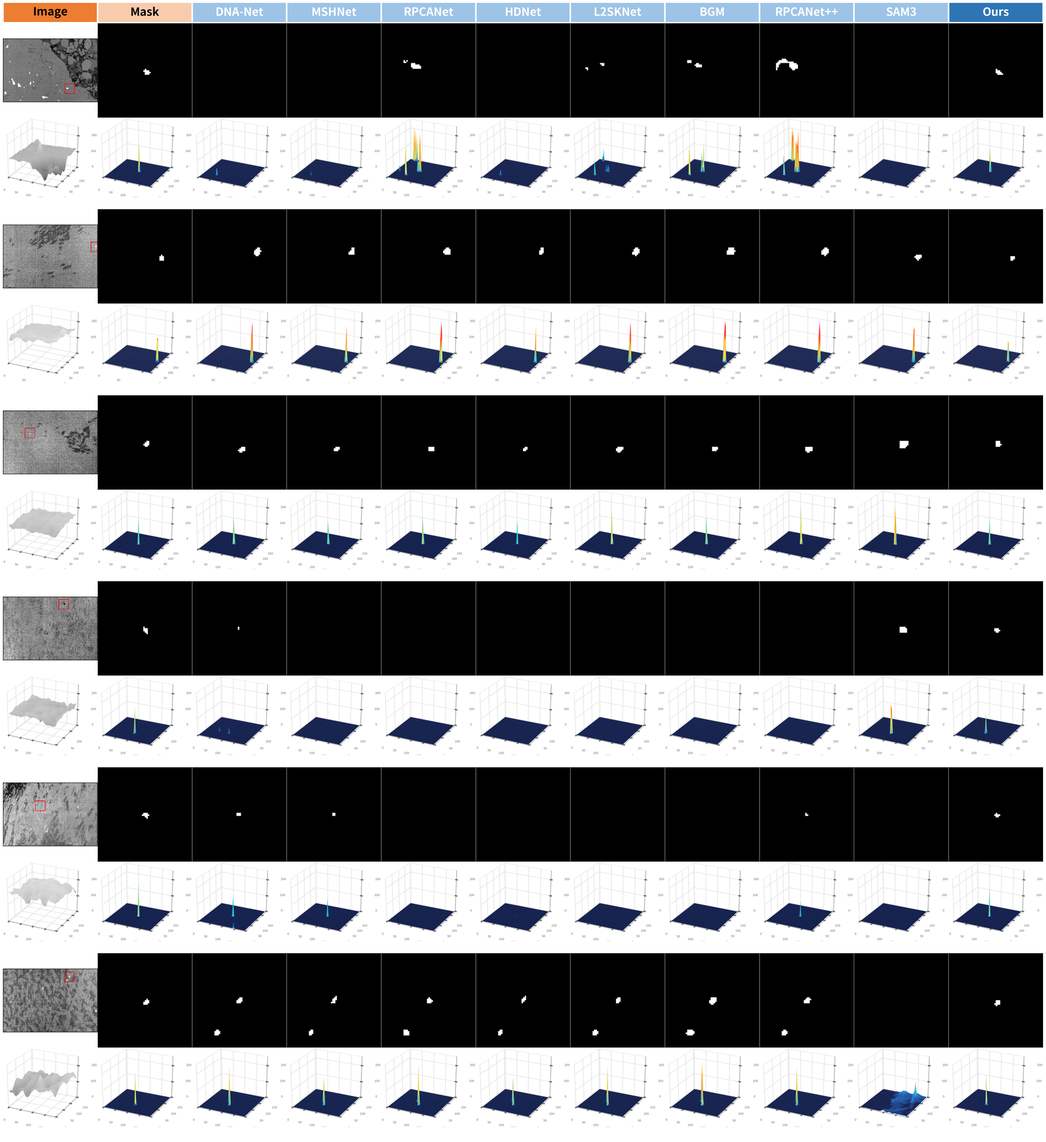
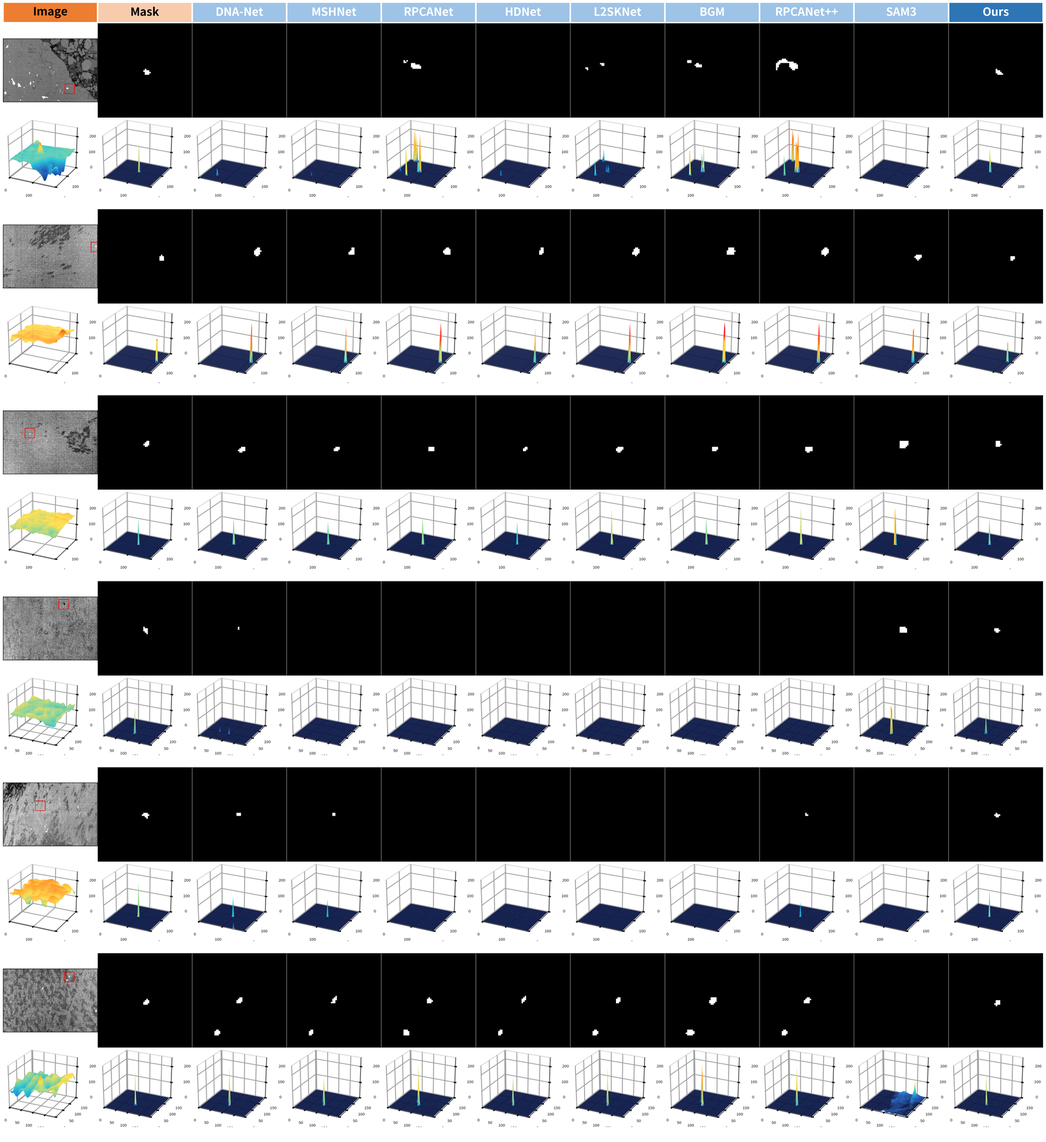
定性图 v7：3D 网格/刻度清晰化、Image 列 3D 改彩色、多目标各画一个红框
1) 3D 可读性：
   - 网格线 0.86 灰/0.22pt -> 0.62 灰/0.45pt；坐标面外框 0.72/0.5pt；轴线 0.30/0.4pt；刻度线 0.9pt
   - 刻度数字 1.7pt/0.45 灰 -> 2.2pt/0.10 近黑；每轴 3 个好刻度（nbins=3）不再拥挤
   - 去掉 X/Y/Z 轴名（0.87 in 面板里会和刻度数字重叠），只留三向数字
   - 裁边 6 -> 14 px，刻度数字不贴边
2) Image 列 3D 由灰色强度面改成彩色（seal3d 色带 + 线性映射），与 PDDiff 一致；
   预测列保持 PowerNorm(0.45) 提亮峰
3) 诊断面板：按 GT 连通域各画一个红框，单目标 36% 面板、多目标 0.45/n（n=3 -> 15%）

本地只留 v7，服务器 Ours/qualitative/ 保留 v0-v7

diff --git a/tools/build_paper_qualitative.py b/tools/build_paper_qualitative.py
@@ -165,22 +165,46 @@ def diag_panel(pred_bin, gt_bin, gt, roi, roi_mode, target=384, box_pad=8, box_f
         canvas = np.zeros((max(ch, cw), max(ch, cw), 3), np.uint8)
         oy, ox = (canvas.shape[0] - ch) // 2, (canvas.shape[1] - cw) // 2
         canvas[oy:oy + ch, ox:ox + cw] = crop
-        # GT box in the upscaled ROI: centred on the GT, at least box_frac of the panel
-        cx = ox + (gx0 + gx1) / 2.0 * k - x0 * k
-        cy = oy + (gy0 + gy1) / 2.0 * k - y0 * k
-        gt_w = (gx1 - gx0 + 1) * k
-        gt_h = (gy1 - gy0 + 1) * k
-        half = max(box_frac * canvas.shape[1], gt_w, gt_h) / 2.0 + box_pad
-        bx0, bx1 = int(round(cx - half)), int(round(cx + half))
-        by0, by1 = int(round(cy - half)), int(round(cy + half))
-        bx0, by0 = max(0, bx0), max(0, by0)
-        bx1 = min(canvas.shape[1] - 1, bx1)
-        by1 = min(canvas.shape[0] - 1, by1)
-        cv2.rectangle(canvas, (bx0, by0), (bx1, by1), RED, 3, cv2.LINE_AA)
+
+        # 一个 mask 里有多个目标就各画一个框；单个目标用大框，多个目标按数量收一点
+        n_lab, labels = cv2.connectedComponents(gt_bin.astype(np.uint8), connectivity=8)
+        comps = []
+        for lab in range(1, n_lab):
+            ys2, xs2 = np.where(labels == lab)
+            if len(ys2) == 0:
+                continue
+            comps.append((int(xs2.min()), int(xs2.max()), int(ys2.min()), int(ys2.max())))
+        if not comps:
+            comps = [(gx0, gx1, gy0, gy1)]
+        frac = 0.36 if len(comps) == 1 else max(0.12, min(0.26, 0.45 / len(comps)))
+        H, W = canvas.shape[:2]
+        for (cx0, cx1, cy0, cy1) in comps:
+            cx = ox + (cx0 + cx1) / 2.0 * k - x0 * k
+            cy = oy + (cy0 + cy1) / 2.0 * k - y0 * k
+            span = max(frac * W, (cx1 - cx0 + 1) * k, (cy1 - cy0 + 1) * k)
+            half = span / 2.0 + box_pad
+            bx0, bx1 = int(round(cx - half)), int(round(cx + half))
+            by0, by1 = int(round(cy - half)), int(round(cy + half))
+            bx0, by0 = max(0, bx0), max(0, by0)
+            bx1, by1 = min(W - 1, bx1), min(H - 1, by1)
+            cv2.rectangle(canvas, (bx0, by0), (bx1, by1), RED, 3, cv2.LINE_AA)
         return canvas
 
+    # 整幅模式：每个目标一个框
     panel = colour.copy()
-    cv2.rectangle(panel, (x0, y0), (x1, y1), RED, 2, cv2.LINE_AA)
+    n_lab, labels = cv2.connectedComponents(gt_bin.astype(np.uint8), connectivity=8)
+    boxes = []
+    for lab in range(1, n_lab):
+        ys2, xs2 = np.where(labels == lab)
+        if len(ys2) == 0:
+            continue
+        boxes.append((int(xs2.min()), int(xs2.max()), int(ys2.min()), int(ys2.max())))
+    if not boxes:
+        boxes = [(x0, x1, y0, y1)]
+    for (cx0, cx1, cy0, cy1) in boxes:
+        cv2.rectangle(panel, (max(0, cx0 - box_pad), max(0, cy0 - box_pad)),
+                      (min(w - 1, cx1 + box_pad), min(h - 1, cy1 + box_pad)),
+                      RED, 2, cv2.LINE_AA)
     return panel
 
 
@@ -216,8 +240,8 @@ def trim_white(img_bgr, pad=10, thr=250):
     return img_bgr[y0:y1, x0:x1]
 
 
-def render_surface_png(arr, path, vmax, cmap='jet',
-                       size_in=(0.873, 0.733), dpi=1200, pad=6):
+def render_surface_png(arr, path, vmax, cmap='jet', gamma=0.45,
+                       size_in=(0.873, 0.733), dpi=1200, pad=14):
     """One 3D box as a standalone PNG, tight-cropped so the box fills the frame.
 
     `arr` is the already-smoothed response crop. Rendered at one cell of the composite
@@ -227,7 +251,7 @@ def render_surface_png(arr, path, vmax, cmap='jet',
     path.parent.mkdir(parents=True, exist_ok=True)
     f = plt.figure(figsize=size_in, dpi=dpi, facecolor='white')
     ax = f.add_subplot(111, projection='3d')
-    add_surface(ax, arr, vmax=vmax, cmap=cmap)
+    add_surface(ax, arr, vmax=vmax, cmap=cmap, gamma=gamma)
     f.subplots_adjust(left=0.0, right=1.0, bottom=0.0, top=1.0)
     import io
 
@@ -240,46 +264,50 @@ def render_surface_png(arr, path, vmax, cmap='jet',
     return path
 
 
-def add_surface(ax, arr, vmax=255.0, cmap=SURF_CMAP, tick_font=1.7):
-    """PDDiff Fig. 9 style surface: filled frame, light grid, thin grey axes, tick labels.
+def add_surface(ax, arr, vmax=255.0, cmap=SURF_CMAP, tick_font=2.2, gamma=0.45):
+    """PDDiff Fig. 9 style surface with a legible wireframe and tick labels.
 
     `arr` must already be smoothed; `vmax` is normally the peak of `arr`, so the target
-    response always reaches the top of the box (tall, obvious peak) and gets the hot end
-    of the colour map.
+    response always reaches the top of the box. `gamma=None` switches the colour mapping
+    to linear (used for the Image column, where the surface is an intensity map).
     """
     h, w = arr.shape
     step = max(1, min(h, w) // 48)
     yy, xx = np.mgrid[0:h:step, 0:w:step]
     zz = arr[::step, ::step]
-    norm = PowerNorm(gamma=0.45, vmin=0, vmax=vmax)
-    ax.plot_surface(xx, yy, zz, cmap=cmap, norm=norm, rstride=1, cstride=1, linewidth=0,
-                    antialiased=True, shade=False)
+    norm = PowerNorm(gamma=gamma, vmin=0, vmax=vmax) if gamma else None
+    if norm is None:
+        ax.plot_surface(xx, yy, zz, cmap=cmap, vmin=0, vmax=vmax, rstride=1, cstride=1,
+                        linewidth=0, antialiased=True, shade=False)
+    else:
+        ax.plot_surface(xx, yy, zz, cmap=cmap, norm=norm, rstride=1, cstride=1,
+                        linewidth=0, antialiased=True, shade=False)
     ax.set_zlim(0, vmax)
     ax.view_init(elev=26, azim=-64)
 
     # 坐标刻度：X/Y 是裁剪块像素坐标，Z 是响应值；取整数"好刻度"，与 PDDiff 一致
-    loc = MaxNLocator(nbins=4, integer=True, steps=[1, 2, 2.5, 5, 10])
+    loc = MaxNLocator(nbins=3, integer=True, steps=[1, 2, 2.5, 5, 10])
     ax.xaxis.set_major_locator(loc)
     ax.yaxis.set_major_locator(loc)
-    ax.zaxis.set_major_locator(MaxNLocator(nbins=4, integer=True, steps=[1, 2, 2.5, 5, 10]))
-    ax.tick_params(axis='x', labelsize=tick_font, pad=-3.0, length=0.4, width=0.15,
-                   colors='0.45')
-    ax.tick_params(axis='y', labelsize=tick_font, pad=-3.0, length=0.4, width=0.15,
-                   colors='0.45')
-    ax.tick_params(axis='z', labelsize=tick_font, pad=-1.5, length=0.4, width=0.15,
-                   colors='0.45')
-    ax.set_xlabel('X', fontsize=tick_font + 0.3, labelpad=-9, color='0.15')
-    ax.set_ylabel('Y', fontsize=tick_font + 0.3, labelpad=-9, color='0.15')
-    ax.set_zlabel('Z', fontsize=tick_font + 0.3, labelpad=-4, color='0.15')
+    ax.zaxis.set_major_locator(MaxNLocator(nbins=3, integer=True, steps=[1, 2, 2.5, 5, 10]))
+    for axis in ('x', 'y'):
+        ax.tick_params(axis=axis, labelsize=tick_font, pad=-3.0, length=0.9, width=0.4,
+                       colors='0.10')
+    ax.tick_params(axis='z', labelsize=tick_font, pad=-1.5, length=0.9, width=0.4,
+                   colors='0.10')
+    # 面板只有 0.87 in 宽，再放 X/Y/Z 轴名会和刻度数字撞在一起，只保留三向刻度数字
+    ax.set_xlabel('')
+    ax.set_ylabel('')
+    ax.set_zlabel('')
 
     for axis in (ax.xaxis, ax.yaxis, ax.zaxis):
         axis.pane.set_facecolor((1, 1, 1, 1))
-        axis.pane.set_edgecolor((0.85, 0.85, 0.85, 1))   # 细浅灰外框
-        axis.pane.set_linewidth(0.3)
-        axis._axinfo['grid'].update(color=(0.86, 0.86, 0.86, 1), linewidth=0.22)
-        # 去掉 matplotlib 默认的黑色粗轴线，改成很细的灰线（PDDiff 没有黑粗线）
-        axis.line.set_color((0.55, 0.55, 0.55, 1))
-        axis.line.set_linewidth(0.22)
+        axis.pane.set_edgecolor((0.72, 0.72, 0.72, 1))   # 外框要看得见
+        axis.pane.set_linewidth(0.5)
+        axis._axinfo['grid'].update(color=(0.62, 0.62, 0.62, 1), linewidth=0.45)
+        # 去掉 matplotlib 默认的黑色粗轴线，改成细而清楚的灰线
+        axis.line.set_color((0.30, 0.30, 0.30, 1))
+        axis.line.set_linewidth(0.4)
 
     ax.grid(True)
     ax.set_box_aspect((1, 1, 1.00), zoom=0.88)
@@ -445,15 +473,18 @@ def main():
             for spine in ax.spines.values():
                 spine.set_color('black'), spine.set_linewidth(0.3)
         for j, surf in enumerate(surfaces):
-            cmap = 'gray' if columns[j][2] == 'image' else SURF_CMAP
-            smooth = 5.0 if columns[j][2] == 'image' else 0.9
+            is_img = columns[j][2] == 'image'
+            cmap = SURF_CMAP if is_img else SURF_CMAP
+            smooth = 5.0 if is_img else 0.9
             arr = gaussian_filter(surf.astype(np.float32), smooth)
             peak = float(arr.max())
             vmax = 255.0 if args.z_mode == 'shared' else max(20.0, peak)
+            # Image 列：彩色（PDDiff 那样），用线性映射；预测列用 PowerNorm 提亮峰
+            gamma = None if is_img else 0.45
             col = safe_name(columns[j][0])
-            p3d = cache_root / f'{stem}_{j:02d}_{col}_{int(round(vmax))}.png'
+            p3d = cache_root / f'{stem}_{j:02d}_{col}_{int(round(vmax))}_{"lin" if is_img else "pow"}.png'
             if not p3d.exists():
-                render_surface_png(arr, p3d, vmax=vmax, cmap=cmap)
+                render_surface_png(arr, p3d, vmax=vmax, cmap=cmap, gamma=gamma)
             if split_root is not None:
                 dst = split_root / f'{si + 1:02d}_{stem}' / '3d' / f'{j:02d}_{col}.png'
                 dst.parent.mkdir(parents=True, exist_ok=True)

diff --git a/AGENTS.md b/AGENTS.md
@@ -62,7 +62,7 @@
 - DRPCA-Net 的 11.23 FPS 是实现开销而非测量噪声：`torch.profiler` 显示单次前向 CUDA 时间的 81.8 % 花在 `ChannelAttention` 的 `nn.AdaptiveMaxPool2d(1)`（每前向 29 次调用），且延迟对 batch 1/2/4 不敏感（85/56/65 ms）。按官方代码如实记录，不改实现。口径、对照表与差异分析见 [Seal 复杂度指标说明](docs/Seal复杂度指标_说明.md)。
 - 平凡基线（决定读表方式，不新增表行）：全背景预测（1,983 张全零）在同一 test GT 上为 S 0.49990、Fw 0、E 0.25、MAE 0.00020553，IoU/F1/Pd/Fa 均为 0。12 个基线与 Ours 的 S（0.49800–0.49915）全部低于该值，12 个基线的 MAE（0.000229–0.000375）全部高于该值，只有 Ours 的 MAE（0.00015090）低于它。因此 S/MAE 在 Seal 上不区分方法，比较以 Fw/IoU/F1/Pd/Fa 为主，S/MAE 须与平凡基线并列阅读；复算见 [汇总](docs/Seal全监督基线评估汇总.md#平凡基线全背景预测)。
 - 第三批（入表，行 29～32）：L2SKNet（TGRS25）、BGM（TGRS25）、DRPCA-Net（TGRS25）、DURD（TGRS26），均为 2025–2026 年、有官方代码的全监督单帧方法，12 个对比方法到此凑满。目录 `L2SKNet-main/`、`BGM-main/`、`DRPCA-Net-main/`、`DURD-main/`；训练设置：L2SKNet 150/Adam 5e-4、BGM 150/Adam 5e-4（两者模型输出已是概率，用概率空间 dataset 级 IoU）、DRPCA-Net 60/Adam 3e-5/dataset 级 SoftIoU + 0.01 MSE、DURD 100/Adam 1e-4/SoftIoU + 0.1 MSE。各处改动逐条写在对应实验记录与 [汇总](docs/Seal全监督基线评估汇总.md#训练不稳定与失败记录)。
-- 论文版式定性图（对齐 PDDiff Fig. 8/9）：[tools/build_paper_qualitative.py](tools/build_paper_qualitative.py)，每个样例两行（2D 二值面板 + 红框/放大插图；3D 响应面 `elev=26, azim=-64`、按面板 z 上限）。三条硬约束：① 3D 行必须喂**概率图**（`--surf-maps results/<M>/Seal/fullsup_test_maps`），二值图是 0/255 阶跃，画出来只有一根尖刺；② Seal 目标只有 3–5 px，`full` 版式（整幅 + 右下插图）在 0.87 in 列宽下几乎看不见，正式图用 `--roi-panels`（面板 = 6 倍放大 ROI，`--roi-min 64 --roi-margin 24`）；③ 11 列 × 11 样例按 9.6 in 出图，若按 7.2 in 排版表头掉到 5.6 pt，主图应拆成 `seal_pick6_roi` + `seal_pick5_roi` 两张。样例取 [docs/qualitative_rank_top200.json](docs/qualitative_rank_top200.json)（`score = F1(Ours) − mean_k F1(baseline_k)`，可用 [docs/qualitative_review_top200.html](docs/qualitative_review_top200.html) 逐图复核），当前采用排名 1,2,5,6,8,11,13,15,19,21,29 共 11 张，一键重建 [tools/make_paper_qualitative_pick.sh](tools/make_paper_qualitative_pick.sh)。Ours 预测在 `Ours/test_maps`（1,983 张概率图）、SAM3 在 `Ours/SAM3-test_maps`（同阈值 `>=128`）。版式规格、样例清单与读数见 [docs/Seal定性图_论文版式.md](docs/Seal定性图_论文版式.md)，预览 `docs/assets/seal_qualitative_pick6_roi.png`、`docs/assets/seal_qualitative_pick11_full.png`。全分辨率成品（600 dpi PNG + 矢量 PDF + meta，约 110 MB/版）按版本归档：服务器保留全部历史（v1 `Ours/qualitative/v1_20261104_11col/`、v2 `v2_20261105/`、v3 `v3_20261105/`、v4 `v4_20261105/`、v5 `v5_20261105/`、v6 `v6_20261105/`），本地只留最新一版在 `Ours/qualitative/v6_20261105/`；**整个 `Ours/qualitative/` 不进 git**（`.gitignore` 整目录排除，只有 `docs/assets/` 里的 1800 px 预览入库）。版式演进：v2 压紧列间距、3D 加网格 + 整数刻度 + 轴名、去掉黑色粗轴线；v3 加单图拆分与 Visio；v4 让 3D 盒子铺满格子（按格子尺寸渲染 PNG → 裁白边 → `aspect='auto'` 贴回）；**v5 解决「3D 白边仍偏大、峰不够高不够显眼」：裁边 26→6 px、平滑 σ 2.0→0.9、`vmax` 取平滑后峰值（峰顶到天花板）、Z 轴统一 0–255 保证跨列可比、盒子 z 比例 0.55→1.00、自定义 `seal3d` 色带（深蓝底→青→黄→亮红）+ `PowerNorm(0.45)`**；并新增 `--diag` 诊断面板（TP 白 / FP 红 / FN 绿 + 红框标 GT），Visio 改用诊断面板；**v6 把诊断面板的红框放大到至少占面板 36%（约 138 px、3 px 线）**——红框是给人定位用的，v5 那版只比 GT 外扩 8 px，印刷尺寸下等于没有。Visio 版由 [tools/make_visio_qualitative.ps1](tools/make_visio_qualitative.ps1) 用 Visio COM 生成（仅 Windows + 已装 Visio）：11 页、每样例一页、每页 34 个独立形状（表头矩形 + 22 张图片 + 页脚说明），可手动调整格式。
+- 论文版式定性图（对齐 PDDiff Fig. 8/9）：[tools/build_paper_qualitative.py](tools/build_paper_qualitative.py)，每个样例两行（2D 二值面板 + 红框/放大插图；3D 响应面 `elev=26, azim=-64`、按面板 z 上限）。三条硬约束：① 3D 行必须喂**概率图**（`--surf-maps results/<M>/Seal/fullsup_test_maps`），二值图是 0/255 阶跃，画出来只有一根尖刺；② Seal 目标只有 3–5 px，`full` 版式（整幅 + 右下插图）在 0.87 in 列宽下几乎看不见，正式图用 `--roi-panels`（面板 = 6 倍放大 ROI，`--roi-min 64 --roi-margin 24`）；③ 11 列 × 11 样例按 9.6 in 出图，若按 7.2 in 排版表头掉到 5.6 pt，主图应拆成 `seal_pick6_roi` + `seal_pick5_roi` 两张。样例取 [docs/qualitative_rank_top200.json](docs/qualitative_rank_top200.json)（`score = F1(Ours) − mean_k F1(baseline_k)`，可用 [docs/qualitative_review_top200.html](docs/qualitative_review_top200.html) 逐图复核），当前采用排名 1,2,5,6,8,11,13,15,19,21,29 共 11 张，一键重建 [tools/make_paper_qualitative_pick.sh](tools/make_paper_qualitative_pick.sh)。Ours 预测在 `Ours/test_maps`（1,983 张概率图）、SAM3 在 `Ours/SAM3-test_maps`（同阈值 `>=128`）。版式规格、样例清单与读数见 [docs/Seal定性图_论文版式.md](docs/Seal定性图_论文版式.md)，预览 `docs/assets/seal_qualitative_pick6_roi.png`、`docs/assets/seal_qualitative_pick11_full.png`。全分辨率成品（600 dpi PNG + 矢量 PDF + meta，约 110 MB/版）按版本归档：服务器保留全部历史（v1 `Ours/qualitative/v1_20261104_11col/`、v2 `v2_20261105/`、v3 `v3_20261105/`、v4 `v4_20261105/`、v5 `v5_20261105/`、v6 `v6_20261105/`、v7 `v7_20261105/`），本地只留最新一版在 `Ours/qualitative/v7_20261105/`；**整个 `Ours/qualitative/` 不进 git**（`.gitignore` 整目录排除，只有 `docs/assets/` 里的 1800 px 预览入库）。版式演进：v2 压紧列间距、3D 加网格 + 整数刻度 + 轴名、去掉黑色粗轴线；v3 加单图拆分与 Visio；v4 让 3D 盒子铺满格子（按格子尺寸渲染 PNG → 裁白边 → `aspect='auto'` 贴回）；**v5 解决「3D 白边仍偏大、峰不够高不够显眼」：裁边 26→6 px、平滑 σ 2.0→0.9、`vmax` 取平滑后峰值（峰顶到天花板）、Z 轴统一 0–255 保证跨列可比、盒子 z 比例 0.55→1.00、自定义 `seal3d` 色带（深蓝底→青→黄→亮红）+ `PowerNorm(0.45)`**；并新增 `--diag` 诊断面板（TP 白 / FP 红 / FN 绿 + 红框标 GT），Visio 改用诊断面板；**v6 把诊断面板的红框放大到至少占面板 36%（约 138 px、3 px 线）**——红框是给人定位用的，v5 那版只比 GT 外扩 8 px，印刷尺寸下等于没有。**v7 再优化三点：① 3D 网格线 0.62 灰 / 0.45 pt、刻度数字 2.2 pt 近黑、每轴 3 个好刻度、去掉会撞车的 X/Y/Z 轴名；② Image 列 3D 改彩色（`seal3d` 色带 + 线性映射，与 PDDiff 一致）；③ 诊断面板遇到多目标时每个连通域各画一个红框（单目标 36% 面板、多目标 0.45/n）**。Visio 版由 [tools/make_visio_qualitative.ps1](tools/make_visio_qualitative.ps1) 用 Visio COM 生成（仅 Windows + 已装 Visio）：11 页、每样例一页、每页 34 个独立形状（表头矩形 + 22 张图片 + 页脚说明），可手动调整格式。
 - 定性图（论文拼图用）：12 个方法与 Ours 的二值预测图在 `results/<Method>/Seal/test_binary/`（1,983 张，`pixel >= 128` → 255），由 [tools/make_binary_maps.py](tools/make_binary_maps.py) 与 [tools/make_qualitative.sh](tools/make_qualitative.sh) 生成；样例拼图在服务器 `qualitative/<stem>/panel.png`（RGB/热红外/GT/预测叠加，13 行），样例清单 `docs/Seal定性对比样例.json`，说明见 [docs/Seal定性对比图.md](docs/Seal定性对比图.md)。
 - ROC / P-R / Pd–Fa 曲线：像素级曲线用 [tools/roc_hist.py](tools/roc_hist.py) 把预测值按 GT 前景（`gt > 127`）/背景分箱成 256 桶直方图（[tools/roc_hist_all.sh](tools/roc_hist_all.sh) → `results/roc_hist/<Method>.json`），目标级曲线用 [tools/target_curves.py](tools/target_curves.py) 在 63 个阈值上做 8 连通 + 质心 <3 px 一对一匹配（[tools/target_curves_all.sh](tools/target_curves_all.sh) 13 进程并行约 1.5 h → `results/target_curves/<Method>.json`）；出图分别是 [tools/plot_roc_pr.py](tools/plot_roc_pr.py) 与 [tools/plot_target_curves.py](tools/plot_target_curves.py)。产物按版本存 `Ours/roc_pr/<version>/`：`v4_20261105/`（像素级 ROC 两段直线版，示例图同款）、`v3_20261105/`（目标级 Pd–Fa，线性 + log 两种横轴）、`v2_20261105/` 与 `v1_20261105/` 为原曲线版留档；每次同时存 PNG（600 dpi）与 PDF + `curves.json` + `summary.md`。**画法（用户明确要求）**：每个方法一条折线且只有两段直线——`(0,0) → 拐点 → (右边框, 平台)`；平台取右边框处的值（像素级 = TPR@FPR=5×10⁻⁴，目标级 = max Pd），拐点 = 沿横轴升序第一个 ≥0.98×平台 的点（`--two-segment`、`--knee-frac`）。像素级 ROC 要把整条折线交给坐标轴裁剪，不能先切掉窗口外的点（否则曲线在末点断掉）；PR 的 (0,1) 哨兵只用于 AP 积分，绘图从第一个真正检出目标的点开始（否则 recall=0 处出现竖直尖刺）；图例按 pAUC 排行、Ours 红色加粗置顶。**一致性**：像素级 `t=128` 的 precision/recall 可复原表中 F1/IoU（Ours 0.61905/0.44831 vs 0.61912/0.44835）；目标级 `t=128` 的 Pd/Fa 与表中 13 行全部逐位吻合（Ours 0.82731 / 2.100e-06）。三条读图约束：① 主指标用低 FPR 区间的 **pAUC**（Ours 0.64386 最高，次优 SCTransNet 0.58376），**不要用全范围 AUC**——几乎不预测前景的 UIU-Net/SCTransNet/ILNet 反而 0.977–0.981，与 S/MAE 被背景主导同类；② 目标级图 Ours 平台 Pd 0.834 最高、拐点 Fa 1.2×10⁻⁶ 比次优 HDNet（5.2×10⁻⁵）低 40 倍，但 13 个方法的 Fa 跨 70 倍，**线性轴会把 Ours 压成贴 y 轴的竖线，主推 log 轴**；③ 像素级 `Pd@t=128`（0.594）是前景像素召回率，与表中目标级 Pd（0.827）不同口径不能互引。口径、两版对照与复现命令见 [docs/Seal_ROC_PR曲线.md](docs/Seal_ROC_PR曲线.md)，预览 `docs/assets/seal_roc_pr_v4.png`、`docs/assets/seal_pd_fa_v3.png`。
 - IoU 的边界敏感性：Seal 目标平均 14.3 像素，把 GT 膨胀/腐蚀 1 像素当预测只能得到 IoU 0.3910 / 0.0826；表中 IoU 0.19–0.31 对应约 1–2 像素边界误差，不能读作分割质量百分比，须与 Fw/F1/Pd/Fa 合看，详见 [定义对照](docs/小目标评价指标_定义与代码对照.md#iou-的边界敏感性seal-gt-实测)。

diff --git a/README.md b/README.md
@@ -65,7 +65,7 @@
 - DRPCA-Net 的 11.23 FPS 是实现开销而非测量噪声：`torch.profiler` 显示单次前向 CUDA 时间的 81.8 % 花在 `ChannelAttention` 的 `nn.AdaptiveMaxPool2d(1)`（每前向 29 次调用），且延迟对 batch 1/2/4 不敏感（85/56/65 ms）。按官方代码如实记录，不改实现。口径、对照表与差异分析见 [Seal 复杂度指标说明](docs/Seal复杂度指标_说明.md)。
 - 平凡基线（决定读表方式，不新增表行）：全背景预测（1,983 张全零）在同一 test GT 上为 S 0.49990、Fw 0、E 0.25、MAE 0.00020553，IoU/F1/Pd/Fa 均为 0。12 个基线与 Ours 的 S（0.49800–0.49915）全部低于该值，12 个基线的 MAE（0.000229–0.000375）全部高于该值，只有 Ours 的 MAE（0.00015090）低于它。因此 S/MAE 在 Seal 上不区分方法，比较以 Fw/IoU/F1/Pd/Fa 为主，S/MAE 须与平凡基线并列阅读；复算见 [汇总](docs/Seal全监督基线评估汇总.md#平凡基线全背景预测)。
 - 第三批（入表，行 29～32）：L2SKNet（TGRS25）、BGM（TGRS25）、DRPCA-Net（TGRS25）、DURD（TGRS26），均为 2025–2026 年、有官方代码的全监督单帧方法，12 个对比方法到此凑满。目录 `L2SKNet-main/`、`BGM-main/`、`DRPCA-Net-main/`、`DURD-main/`；训练设置：L2SKNet 150/Adam 5e-4、BGM 150/Adam 5e-4（两者模型输出已是概率，用概率空间 dataset 级 IoU）、DRPCA-Net 60/Adam 3e-5/dataset 级 SoftIoU + 0.01 MSE、DURD 100/Adam 1e-4/SoftIoU + 0.1 MSE。各处改动逐条写在对应实验记录与 [汇总](docs/Seal全监督基线评估汇总.md#训练不稳定与失败记录)。
-- 论文版式定性图（对齐 PDDiff Fig. 8/9）：[tools/build_paper_qualitative.py](tools/build_paper_qualitative.py)，每个样例两行（2D 二值面板 + 红框/放大插图；3D 响应面 `elev=26, azim=-64`、按面板 z 上限）。三条硬约束：① 3D 行必须喂**概率图**（`--surf-maps results/<M>/Seal/fullsup_test_maps`），二值图是 0/255 阶跃，画出来只有一根尖刺；② Seal 目标只有 3–5 px，`full` 版式（整幅 + 右下插图）在 0.87 in 列宽下几乎看不见，正式图用 `--roi-panels`（面板 = 6 倍放大 ROI，`--roi-min 64 --roi-margin 24`）；③ 11 列 × 11 样例按 9.6 in 出图，若按 7.2 in 排版表头掉到 5.6 pt，主图应拆成 `seal_pick6_roi` + `seal_pick5_roi` 两张。样例取 [docs/qualitative_rank_top200.json](docs/qualitative_rank_top200.json)（`score = F1(Ours) − mean_k F1(baseline_k)`，可用 [docs/qualitative_review_top200.html](docs/qualitative_review_top200.html) 逐图复核），当前采用排名 1,2,5,6,8,11,13,15,19,21,29 共 11 张，一键重建 [tools/make_paper_qualitative_pick.sh](tools/make_paper_qualitative_pick.sh)。Ours 预测在 `Ours/test_maps`（1,983 张概率图）、SAM3 在 `Ours/SAM3-test_maps`（同阈值 `>=128`）。版式规格、样例清单与读数见 [docs/Seal定性图_论文版式.md](docs/Seal定性图_论文版式.md)，预览 `docs/assets/seal_qualitative_pick6_roi.png`、`docs/assets/seal_qualitative_pick11_full.png`。全分辨率成品（600 dpi PNG + 矢量 PDF + meta，约 110 MB/版）按版本归档：服务器保留全部历史（v1 `Ours/qualitative/v1_20261104_11col/`、v2 `v2_20261105/`、v3 `v3_20261105/`、v4 `v4_20261105/`、v5 `v5_20261105/`、v6 `v6_20261105/`），本地只留最新一版在 `Ours/qualitative/v6_20261105/`；**整个 `Ours/qualitative/` 不进 git**（`.gitignore` 整目录排除，只有 `docs/assets/` 里的 1800 px 预览入库）。版式演进：v2 压紧列间距、3D 加网格 + 整数刻度 + 轴名、去掉黑色粗轴线；v3 加单图拆分与 Visio；v4 让 3D 盒子铺满格子（按格子尺寸渲染 PNG → 裁白边 → `aspect='auto'` 贴回）；**v5 解决「3D 白边仍偏大、峰不够高不够显眼」：裁边 26→6 px、平滑 σ 2.0→0.9、`vmax` 取平滑后峰值（峰顶到天花板）、Z 轴统一 0–255 保证跨列可比、盒子 z 比例 0.55→1.00、自定义 `seal3d` 色带（深蓝底→青→黄→亮红）+ `PowerNorm(0.45)`**；并新增 `--diag` 诊断面板（TP 白 / FP 红 / FN 绿 + 红框标 GT），Visio 改用诊断面板；**v6 把诊断面板的红框放大到至少占面板 36%（约 138 px、3 px 线）**——红框是给人定位用的，v5 那版只比 GT 外扩 8 px，印刷尺寸下等于没有。Visio 版由 [tools/make_visio_qualitative.ps1](tools/make_visio_qualitative.ps1) 用 Visio COM 生成（仅 Windows + 已装 Visio）：11 页、每样例一页、每页 34 个独立形状（表头矩形 + 22 张图片 + 页脚说明），可手动调整格式。
+- 论文版式定性图（对齐 PDDiff Fig. 8/9）：[tools/build_paper_qualitative.py](tools/build_paper_qualitative.py)，每个样例两行（2D 二值面板 + 红框/放大插图；3D 响应面 `elev=26, azim=-64`、按面板 z 上限）。三条硬约束：① 3D 行必须喂**概率图**（`--surf-maps results/<M>/Seal/fullsup_test_maps`），二值图是 0/255 阶跃，画出来只有一根尖刺；② Seal 目标只有 3–5 px，`full` 版式（整幅 + 右下插图）在 0.87 in 列宽下几乎看不见，正式图用 `--roi-panels`（面板 = 6 倍放大 ROI，`--roi-min 64 --roi-margin 24`）；③ 11 列 × 11 样例按 9.6 in 出图，若按 7.2 in 排版表头掉到 5.6 pt，主图应拆成 `seal_pick6_roi` + `seal_pick5_roi` 两张。样例取 [docs/qualitative_rank_top200.json](docs/qualitative_rank_top200.json)（`score = F1(Ours) − mean_k F1(baseline_k)`，可用 [docs/qualitative_review_top200.html](docs/qualitative_review_top200.html) 逐图复核），当前采用排名 1,2,5,6,8,11,13,15,19,21,29 共 11 张，一键重建 [tools/make_paper_qualitative_pick.sh](tools/make_paper_qualitative_pick.sh)。Ours 预测在 `Ours/test_maps`（1,983 张概率图）、SAM3 在 `Ours/SAM3-test_maps`（同阈值 `>=128`）。版式规格、样例清单与读数见 [docs/Seal定性图_论文版式.md](docs/Seal定性图_论文版式.md)，预览 `docs/assets/seal_qualitative_pick6_roi.png`、`docs/assets/seal_qualitative_pick11_full.png`。全分辨率成品（600 dpi PNG + 矢量 PDF + meta，约 110 MB/版）按版本归档：服务器保留全部历史（v1 `Ours/qualitative/v1_20261104_11col/`、v2 `v2_20261105/`、v3 `v3_20261105/`、v4 `v4_20261105/`、v5 `v5_20261105/`、v6 `v6_20261105/`、v7 `v7_20261105/`），本地只留最新一版在 `Ours/qualitative/v7_20261105/`；**整个 `Ours/qualitative/` 不进 git**（`.gitignore` 整目录排除，只有 `docs/assets/` 里的 1800 px 预览入库）。版式演进：v2 压紧列间距、3D 加网格 + 整数刻度 + 轴名、去掉黑色粗轴线；v3 加单图拆分与 Visio；v4 让 3D 盒子铺满格子（按格子尺寸渲染 PNG → 裁白边 → `aspect='auto'` 贴回）；**v5 解决「3D 白边仍偏大、峰不够高不够显眼」：裁边 26→6 px、平滑 σ 2.0→0.9、`vmax` 取平滑后峰值（峰顶到天花板）、Z 轴统一 0–255 保证跨列可比、盒子 z 比例 0.55→1.00、自定义 `seal3d` 色带（深蓝底→青→黄→亮红）+ `PowerNorm(0.45)`**；并新增 `--diag` 诊断面板（TP 白 / FP 红 / FN 绿 + 红框标 GT），Visio 改用诊断面板；**v6 把诊断面板的红框放大到至少占面板 36%（约 138 px、3 px 线）**——红框是给人定位用的，v5 那版只比 GT 外扩 8 px，印刷尺寸下等于没有。**v7 再优化三点：① 3D 网格线 0.62 灰 / 0.45 pt、刻度数字 2.2 pt 近黑、每轴 3 个好刻度、去掉会撞车的 X/Y/Z 轴名；② Image 列 3D 改彩色（`seal3d` 色带 + 线性映射，与 PDDiff 一致）；③ 诊断面板遇到多目标时每个连通域各画一个红框（单目标 36% 面板、多目标 0.45/n）**。Visio 版由 [tools/make_visio_qualitative.ps1](tools/make_visio_qualitative.ps1) 用 Visio COM 生成（仅 Windows + 已装 Visio）：11 页、每样例一页、每页 34 个独立形状（表头矩形 + 22 张图片 + 页脚说明），可手动调整格式。
 - 定性图（论文拼图用）：12 个方法与 Ours 的二值预测图在 `results/<Method>/Seal/test_binary/`（1,983 张，`pixel >= 128` → 255），由 [tools/make_binary_maps.py](tools/make_binary_maps.py) 与 [tools/make_qualitative.sh](tools/make_qualitative.sh) 生成；样例拼图在服务器 `qualitative/<stem>/panel.png`（RGB/热红外/GT/预测叠加，13 行），样例清单 `docs/Seal定性对比样例.json`，说明见 [docs/Seal定性对比图.md](docs/Seal定性对比图.md)。
 - ROC / P-R / Pd–Fa 曲线：像素级曲线用 [tools/roc_hist.py](tools/roc_hist.py) 把预测值按 GT 前景（`gt > 127`）/背景分箱成 256 桶直方图（[tools/roc_hist_all.sh](tools/roc_hist_all.sh) → `results/roc_hist/<Method>.json`），目标级曲线用 [tools/target_curves.py](tools/target_curves.py) 在 63 个阈值上做 8 连通 + 质心 <3 px 一对一匹配（[tools/target_curves_all.sh](tools/target_curves_all.sh) 13 进程并行约 1.5 h → `results/target_curves/<Method>.json`）；出图分别是 [tools/plot_roc_pr.py](tools/plot_roc_pr.py) 与 [tools/plot_target_curves.py](tools/plot_target_curves.py)。产物按版本存 `Ours/roc_pr/<version>/`：`v4_20261105/`（像素级 ROC 两段直线版，示例图同款）、`v3_20261105/`（目标级 Pd–Fa，线性 + log 两种横轴）、`v2_20261105/` 与 `v1_20261105/` 为原曲线版留档；每次同时存 PNG（600 dpi）与 PDF + `curves.json` + `summary.md`。**画法（用户明确要求）**：每个方法一条折线且只有两段直线——`(0,0) → 拐点 → (右边框, 平台)`；平台取右边框处的值（像素级 = TPR@FPR=5×10⁻⁴，目标级 = max Pd），拐点 = 沿横轴升序第一个 ≥0.98×平台 的点（`--two-segment`、`--knee-frac`）。像素级 ROC 要把整条折线交给坐标轴裁剪，不能先切掉窗口外的点（否则曲线在末点断掉）；PR 的 (0,1) 哨兵只用于 AP 积分，绘图从第一个真正检出目标的点开始（否则 recall=0 处出现竖直尖刺）；图例按 pAUC 排行、Ours 红色加粗置顶。**一致性**：像素级 `t=128` 的 precision/recall 可复原表中 F1/IoU（Ours 0.61905/0.44831 vs 0.61912/0.44835）；目标级 `t=128` 的 Pd/Fa 与表中 13 行全部逐位吻合（Ours 0.82731 / 2.100e-06）。三条读图约束：① 主指标用低 FPR 区间的 **pAUC**（Ours 0.64386 最高，次优 SCTransNet 0.58376），**不要用全范围 AUC**——几乎不预测前景的 UIU-Net/SCTransNet/ILNet 反而 0.977–0.981，与 S/MAE 被背景主导同类；② 目标级图 Ours 平台 Pd 0.834 最高、拐点 Fa 1.2×10⁻⁶ 比次优 HDNet（5.2×10⁻⁵）低 40 倍，但 13 个方法的 Fa 跨 70 倍，**线性轴会把 Ours 压成贴 y 轴的竖线，主推 log 轴**；③ 像素级 `Pd@t=128`（0.594）是前景像素召回率，与表中目标级 Pd（0.827）不同口径不能互引。口径、两版对照与复现命令见 [docs/Seal_ROC_PR曲线.md](docs/Seal_ROC_PR曲线.md)，预览 `docs/assets/seal_roc_pr_v4.png`、`docs/assets/seal_pd_fa_v3.png`。
 - IoU 的边界敏感性：Seal 目标平均 14.3 像素，把 GT 膨胀/腐蚀 1 像素当预测只能得到 IoU 0.3910 / 0.0826；表中 IoU 0.19–0.31 对应约 1–2 像素边界误差，不能读作分割质量百分比，须与 Fw/F1/Pd/Fa 合看，详见 [定义对照](docs/小目标评价指标_定义与代码对照.md#iou-的边界敏感性seal-gt-实测)。

diff --git a/docs/Seal定性图_论文版式.md b/docs/Seal定性图_论文版式.md
@@ -112,7 +112,7 @@ python tools/build_paper_qualitative.py \
 
 （`2688/2120/2894` 是多目标或细长目标，视野被 `--roi-min 64` 自动放大到 98–138 px。）
 
-构建：`bash tools/make_paper_qualitative_pick.sh all Ours/qualitative/v6_20261105`（第二个参数是输出目录，默认 `Ours/qualitative/latest`；**每次改版都给新目录**，别覆盖旧版）。`full`/`roi` 二选一也行。
+构建：`bash tools/make_paper_qualitative_pick.sh all Ours/qualitative/v7_20261105`（第二个参数是输出目录，默认 `Ours/qualitative/latest`；**每次改版都给新目录**，别覆盖旧版）。`full`/`roi` 二选一也行。
 
 ### 版本
 
@@ -123,11 +123,12 @@ python tools/build_paper_qualitative.py \
 | v3 | `Ours/qualitative/v3_20261105/` | 已删除 | 3D 刻度 1.8 pt、`zoom=0.85`；新增单图拆分 `panels_roi/` 与 Visio 版 |
 | v4 | `Ours/qualitative/v4_20261105/` | 已删除 | 3D 盒子铺满格子：每个 3D 先单独渲染（0.873×0.733 in @1200 dpi，与格子同尺寸同字号）→ 裁白边（26 px）→ `aspect='auto'` 贴回；拼图里的 3D 行因此变成位图，PDF 从 5–10 MB 降到 1–2.3 MB |
 | v5 | `Ours/qualitative/v5_20261105/` | 已删除 | 3D 更满（裁边 26→6 px）+ 峰更高更亮：平滑 σ 2.0→0.9、`vmax`=平滑后峰值、Z 轴统一 0–255、盒子 z 比例 0.55→1.00、自定义 `seal3d` 色带（深蓝底→青→黄→亮红）+ `PowerNorm(0.45)`；新增 `--diag` 诊断面板（TP 白 / FP 红 / FN 绿 + 红框），Visio 改用诊断面板 |/n| v6（当前） | `Ours/qualitative/v6_20261105/` | `Ours/qualitative/v6_20261105/` | 诊断面板的红框放大：从「GT 外扩 8 px」（384 面板里约 40 px）改成**至少占面板 36%（约 138 px）、3 px 线**，居中套在 GT 上；其余与 v5 相同 |
-| v6（当前） | `Ours/qualitative/v6_20261105/` | `Ours/qualitative/v6_20261105/` | 诊断面板的红框放大：从「GT 外扩 8 px」（384 面板里约 40 px、2 px 线）改成**至少占面板 36%（约 138 px）、3 px 线**，居中套在 GT 上；其余与 v5 相同 |
+| v6 | 已删除 | 已删除 | 诊断面板的红框放大：从「GT 外扩 8 px」（384 面板里约 40 px、2 px 线）改成**至少占面板 36%（约 138 px）、3 px 线**，居中套在 GT 上；其余与 v5 相同 |
+| v7（当前） | `Ours/qualitative/v7_20261105/` | `Ours/qualitative/v7_20261105/` | 3D 网格/刻度清晰化（网格 0.62 灰 0.45 pt、刻度 2.2 pt 近黑、每轴 3 个刻度、去掉 X/Y/Z 轴名避免与数字相撞）；Image 列 3D 改彩色（与 PDDiff 一致，线性映射）；诊断面板多目标时**每个连通域一个红框**（单目标 36%、多目标 0.45/n）；裁边 6→14 px |
 
 服务器保留全部历史版本；本地只留最新一版，**整个 `Ours/qualitative/` 不进 git**（单版 100 MB 量级，`.gitignore` 已整目录排除）。
 
-v6 产物（600 dpi PNG + 矢量 PDF + meta）：
+v7 产物（600 dpi PNG + 矢量 PDF + meta）：
 
 | 文件 | 内容 | 尺寸 |
 |---|---|---|
@@ -145,7 +146,7 @@ v6 产物（600 dpi PNG + 矢量 PDF + meta）：
 
 Visio 版由 [tools/make_visio_qualitative.ps1](tools/make_visio_qualitative.ps1) 用 Visio COM 生成（仅 Windows + 已装 Visio 可用）：表头是带填充/文字/雅黑的矩形，图片是嵌入的图片形状，页脚一行说明——都能单独选中改格式。
 
-仓库内预览（1800 px 宽，仅用于查看版式，已同步为 v6）：[`seal_qualitative_pick6_roi.png`](assets/seal_qualitative_pick6_roi.png)、[`seal_qualitative_pick5_roi.png`](assets/seal_qualitative_pick5_roi.png)、[`seal_qualitative_pick11_full.png`](assets/seal_qualitative_pick11_full.png)。
+仓库内预览（1800 px 宽，仅用于查看版式，已同步为 v7）：[`seal_qualitative_pick6_roi.png`](assets/seal_qualitative_pick6_roi.png)、[`seal_qualitative_pick5_roi.png`](assets/seal_qualitative_pick5_roi.png)、[`seal_qualitative_pick11_full.png`](assets/seal_qualitative_pick11_full.png)。
 
 从图上直接能读到的事实（对照表 21～32 行）：
 
